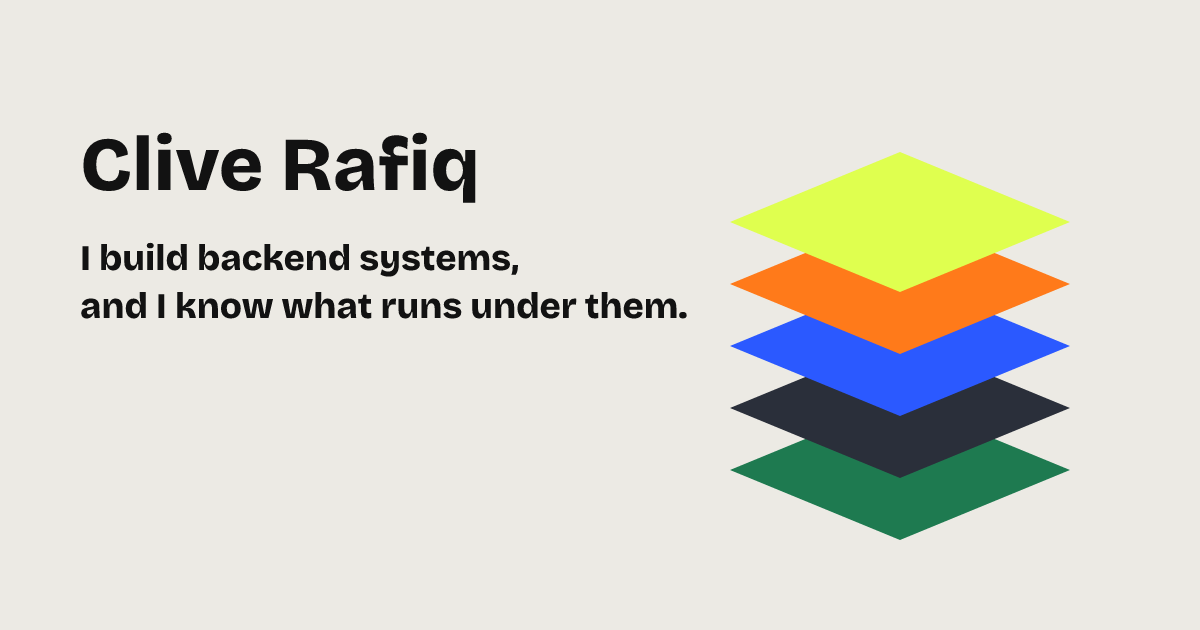
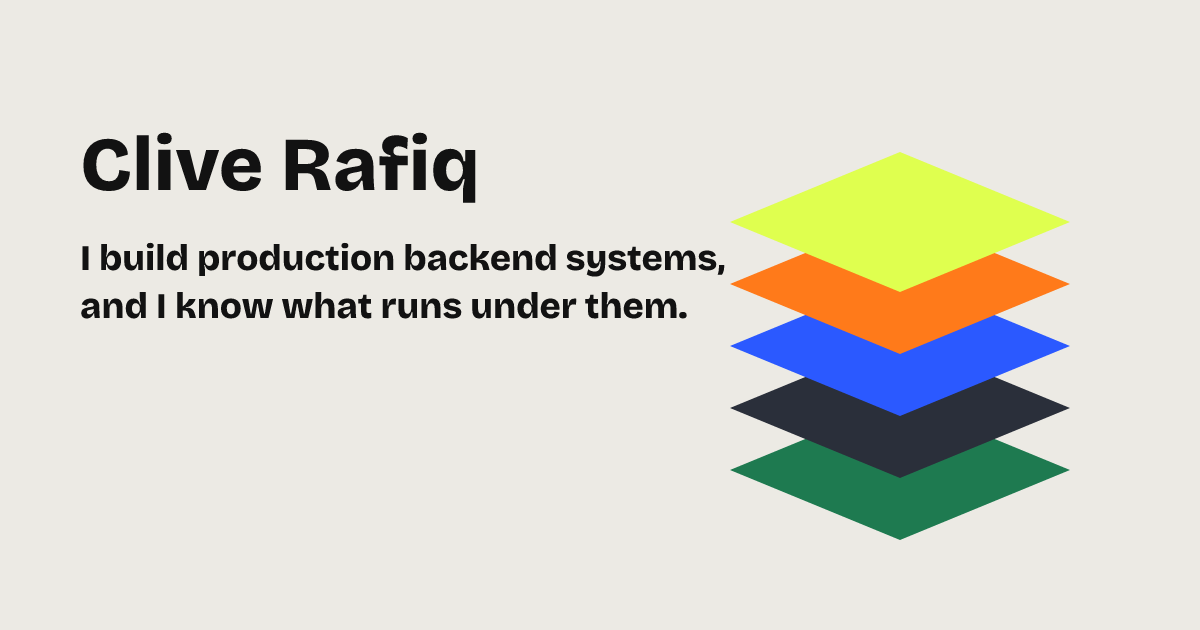
content: copy pass on the stack page
Claude-Session: https://claude.ai/code/session_01CpKg3X5aamTrM3vRthchiB

Changed region(s): [[0.185, 0.3921, 0.6167, 0.4524]]

diff --git a/src/data/work.ts b/src/data/work.ts
@@ -2,16 +2,16 @@ import type { AlsoItem, LayerId, WorkEntry } from './types';
 
 export const work: WorkEntry[] = [
   { slug: 'world-salon', name: 'World Salon', role: 'Backend developer intern, New York', dates: 'May – Aug 2026',
-    text: 'Traced two production-blocking failures: an ASGI adapter that failed every request under Python 3.12, and JWKS auth fetches breaking across containers. Shipped per-recipient read and unread tracking on FastAPI, Lambda, and DynamoDB, and built a Bash harness that exposed a race condition.',
+    text: 'Traced why an ASGI adapter failed every request under Python 3.12 and why JWKS auth fetches broke across containers, unblocking production both times. Shipped per-recipient read and unread tracking for notifications on FastAPI, Lambda, and DynamoDB, and built a Bash harness that exposed a race condition.',
     highlight: { value: '2', label: 'production blockers traced' }, layers: ['services', 'data'], links: [] },
   { slug: 'bfi-finance', name: 'BFI Finance', role: 'Backend intern, Jakarta', dates: 'Dec 2025 – Jan 2026',
-    text: 'Built an event-driven Go service on NATS that caches WhatsApp customer media in object storage, extending retention from two weeks to indefinite. Deployed it with Docker and Kubernetes into the production loan workflow.',
+    text: 'Built an event-driven Go service on NATS that caches customers\' WhatsApp photos and videos in object storage, extending retention from two weeks to indefinite. Deployed it with Docker and Kubernetes into the production loan workflow.',
     highlight: { value: '6,000', label: 'loan officers use that workflow daily' }, layers: ['services'], links: [] },
   { slug: 'physioactive', name: 'PhysioActive Indonesia', role: 'Full-stack intern, Jakarta', dates: 'Jul 2024 – Jan 2025',
-    text: 'Built Python ETL pipelines in BigQuery that classified 10,000+ customer messages with an LLM, giving the CEO same-day results. Launched a Flask dashboard of customer messages and metrics.',
-    highlight: { value: '−77%', label: 'employee response time, measured with test messages before and after launch' }, layers: ['data', 'product'], links: [] },
+    text: 'Built Python ETL pipelines in BigQuery that used an LLM to classify 10,000+ customer messages by sentiment, giving the CEO same-day results. Launched a Flask dashboard of customer messages and metrics.',
+    highlight: { value: '−77%', label: 'employee response time, in test messages sent before and after launch' }, layers: ['data', 'product'], links: [] },
   { slug: 'slackdb', name: 'SlackDB', role: 'VillageHacks at ASU', dates: 'Apr 2026',
-    text: 'Text-to-SQL in Slack, with guardrails for LLM-written SQL: risk-scored migrations, sandbox validation, rollback detection, and approver enforcement. I built the guardrails and the FastAPI backend.',
+    text: 'Text-to-SQL in Slack, with guardrails to block destructive production changes from LLM-written SQL: risk-scored migrations, sandbox validation, rollback detection, and approver enforcement. I designed the guardrails and shipped the FastAPI backend.',
     award: 'AutoDB track winner', layers: ['data', 'product'],
     links: [{ label: 'Code', href: 'https://github.com/cliverafiq/SlackDB' }, { label: 'Demo', href: 'https://slackdb.vercel.app/' }] },
   { slug: 'drift', name: 'Drift', role: 'StarkHacks at Purdue', dates: 'Apr 2026',
@@ -19,15 +19,15 @@ export const work: WorkEntry[] = [
     highlight: { value: '48 hours', label: 'to build' }, layers: ['firmware', 'hardware'],
     links: [{ label: 'Code', href: 'https://github.com/cliverafiq/Drift' }] },
   { slug: 'assistive-wearable', name: 'Assistive wearable', role: 'ASU', dates: 'Aug – Nov 2025',
-    text: 'A smartwatch alternative for visually impaired users that gives the time, temperature, and compass direction through sound and touch.',
+    text: 'A smartwatch alternative for visually impaired users that gives the time, temperature, and compass direction through sound and touch. I designed and built it, from the button controls to the speaker and vibration output.',
     image: { src: '/projects/assistive-wearable.jpg', alt: 'The assistive wearable on a wrist, with its buttons, speaker, vibration output, Velcro straps, and battery pack labeled', width: 394, height: 324 },
     layers: ['hardware'], links: [] },
   { slug: 'seds-rocketry', name: 'SEDS Rocketry Division at ASU', role: 'Firmware engineer', dates: 'Aug 2026 – now', layers: ['firmware'], links: [] },
 ];
 
 export const also: AlsoItem[] = [
-  { name: 'MRI denoising research', dates: 'Aug – Dec 2025', line: 'PSNR up about 11 dB across about 3,000 MRI slices', link: { label: 'Code', href: 'https://github.com/cliverafiq/mri-tumor-segmentation' } },
-  { name: 'k-Chinese Postman routing research', dates: 'Dec 2023 – Nov 2024', line: 'Route cost down by up to 22%', link: { label: 'Code', href: 'https://github.com/cliverafiq/postman' } },
+  { name: 'MRI denoising research', dates: 'Aug – Dec 2025', line: 'PSNR up about 11 dB across roughly 3,000 MRI slices', link: { label: 'Code', href: 'https://github.com/cliverafiq/mri-tumor-segmentation' } },
+  { name: 'k-Chinese Postman routing research', dates: 'Dec 2023 – Nov 2024', line: 'Route cost down by up to 22% versus baseline heuristics', link: { label: 'Code', href: 'https://github.com/cliverafiq/postman' } },
   { name: 'TechTrek Indonesia', dates: 'Aug 2023 – Feb 2025', line: 'Co-founder; Python and VEX Robotics workshops for 30 students' },
 ];
 

diff --git a/tests/og.test.ts b/tests/og.test.ts
@@ -15,7 +15,7 @@ test('renders a 1200 × 630 PNG', async () => {
 
 test('the preview shows the name, both headline lines, and all five layers', () => {
   const svg = ogSvg();
-  for (const text of ['Clive Rafiq', 'I build backend systems,', 'and I know what runs under them.']) expect(svg).toContain(text);
+  for (const text of ['Clive Rafiq', 'I build production backend systems,', 'and I know what runs under them.']) expect(svg).toContain(text);
   for (const l of layers) expect(svg).toContain(`fill="${l.color}"`);
   expect(svg).not.toContain('Overpass');
 });

diff --git a/src/data/profile.ts b/src/data/profile.ts
@@ -2,7 +2,7 @@ import type { Profile } from './types';
 
 export const profile: Profile = {
   name: 'Clive Rafiq',
-  headline: 'I build backend systems, and I know what runs under them.',
+  headline: 'I build production backend systems, and I know what runs under them.',
   line: "Computer Systems Engineering at ASU, graduating a year early in May 2028. I've interned in New York and Jakarta, and I'm looking for Summer 2027 internships.",
   email: 'clive.rafiq@gmail.com',
   linkedin: 'https://www.linkedin.com/in/clive-rafiq',

diff --git a/tests/data.test.ts b/tests/data.test.ts
@@ -49,6 +49,6 @@ test('also lists the three smaller pieces in order', () => {
   ]);
 });
 test('profile carries the draft headline, and no string uses a middle dot or arrow', () => {
-  expect(profile.headline).toBe('I build backend systems, and I know what runs under them.');
+  expect(profile.headline).toBe('I build production backend systems, and I know what runs under them.');
   expect(JSON.stringify({ layers, work, also, profile })).not.toMatch(/·|→/);
 });
